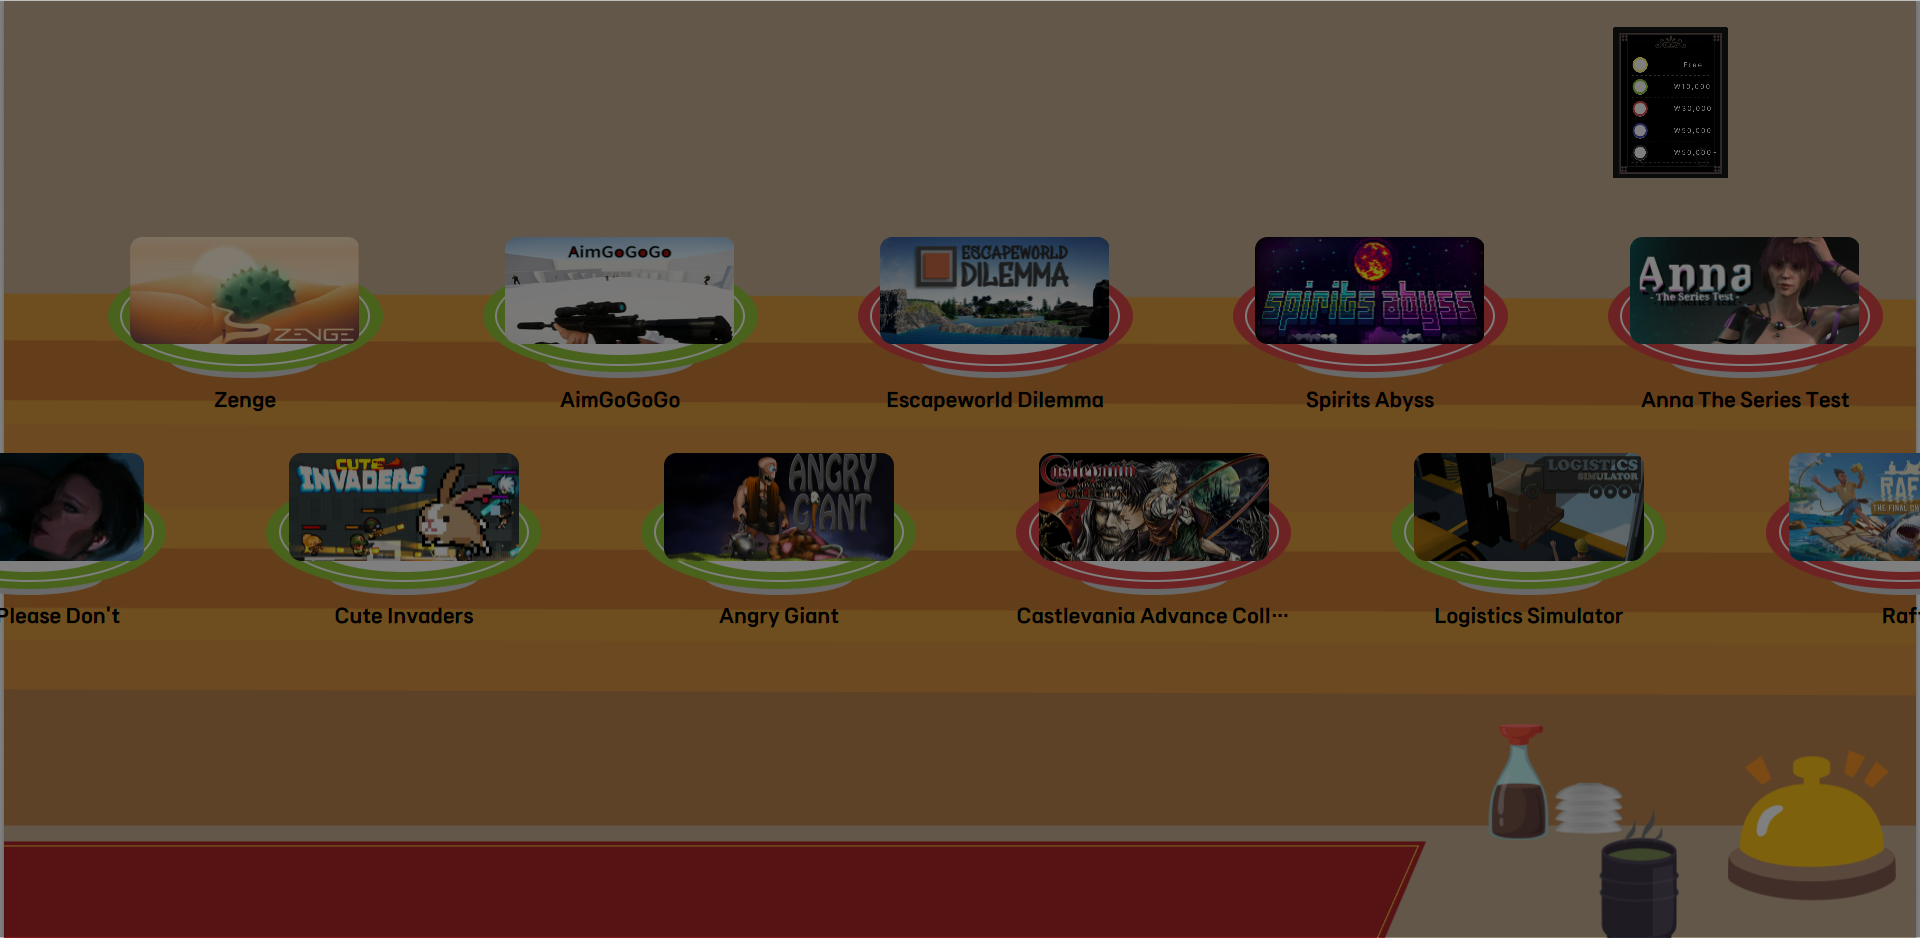
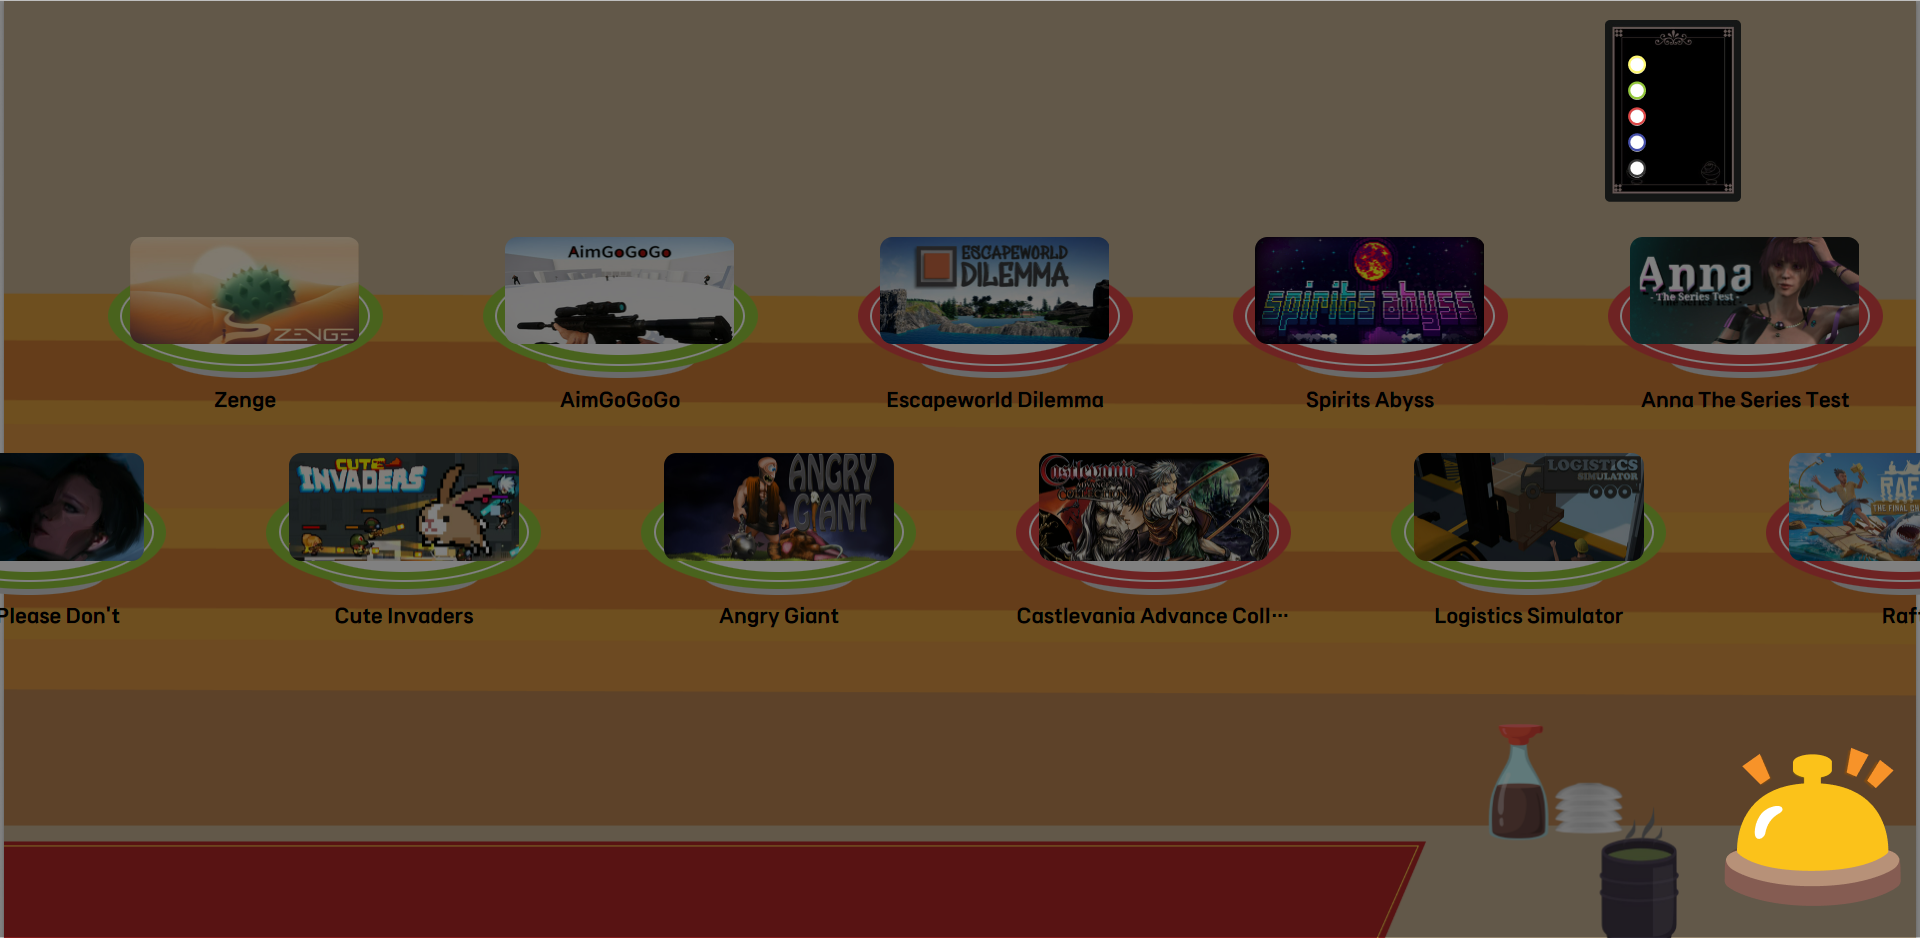
feat:tutorial done
Former-commit-id: 31d00a8ce2d9b2fe3a5ca41522696a976b03b738 [formerly c31d1f26e9799f7cc37b62472d2ee48d71d2d184]
Former-commit-id: 72b934b2256230f26db3ff03bf790257fcc9c484

Changed region(s): [[0.8125, 0.0, 0.9062, 0.2164], [0.875, 0.8038, 1.0, 0.9893]]

diff --git a/front/src/components/TutorialCount.jsx b/front/src/components/TutorialCount.jsx
@@ -1,11 +1,18 @@
 import React from 'react';
+import { useNavigate } from 'react-router-dom';
 
 export default function TutorialCount({ count, setCount }) {
-  console.log(count);
+  const navigate = useNavigate();
+
   const plusCount = () => {
-    const plusCount = (count += 1);
-    console.log(plusCount);
-    setCount(plusCount);
+    if (count !== 4) {
+      const plusCount = (count += 1);
+      console.log(plusCount);
+      setCount(plusCount);
+    } else if (count === 4) {
+      navigate('/game');
+    }
+    
   };
   if (count === 1) {
     return (
@@ -14,13 +21,13 @@ export default function TutorialCount({ count, setCount }) {
         <div className="ml-[13vw]">
           <div className="pointingCircle border-white border-2 border-dashed"></div>
           <div className="ml-[140px]">
-            <div className="bg-white w-[250px] h-[80px]  mt-3 pt-1 px-2 rounded-md">
-              <p className="mt-2">
+            <div className="bg-white  w-[400px] h-[80px]  mt-3 pt-1 px-4 balloon">
+              <p className="mt-2 font-jamsil">
                 1. 초밥을 누르시면 게임의 상세 정보를 알 수 있어요!
               </p>
             </div>
             <button
-              className="mt-2 ml-[200px] bg-yellow-300 hover:bg-yellow-500 font-bold rounded-lg px-2 py-1"
+              className="mt-2 ml-[350px] bg-yellow-300 hover:bg-yellow-500 font-bold rounded-lg px-2 py-1"
               onClick={plusCount}
             >
               다음
@@ -36,13 +43,13 @@ export default function TutorialCount({ count, setCount }) {
         <div className="ml-[13vw]">
           <div className="pointingCircle border-white border-2 border-dashed"></div>
           <div className="ml-[140px]">
-            <div className="bg-white w-[400px] h-[80px]  mt-3 pt-1 px-4 rounded-md">
-              <p className="mt-2">
+            <div className="bg-white w-[400px] h-[80px]  mt-3 pt-1 px-4 balloon">
+              <p className="mt-2 font-jamsil">
                 2. 하고 싶은 게임이 보이면 아래 테이블로 드래그 해주세요!
               </p>
             </div>
             <button
-              className="mt-2 ml-[200px] bg-yellow-300 hover:bg-yellow-500 font-bold rounded-lg px-2 py-1"
+              className="mt-2 ml-[350px] bg-yellow-300 hover:bg-yellow-500 font-bold rounded-lg px-2 py-1"
               onClick={plusCount}
             >
               다음
@@ -53,24 +60,45 @@ export default function TutorialCount({ count, setCount }) {
     );
   } else if (count === 3) {
     return (
-      <div>
-        <div className="h-[36vh]"></div>
-        <div className="h-[15vh]"></div>
-        <div className="ml-[13vw]">
-          <div className="pointingCircle border-white border-2 border-dashed"></div>
-          <div className="ml-[140px]">
-            <div className="bg-white w-[250px] h-[80px]  mt-3 pt-1 px-2 rounded-md">
+      <div className=''>
+
+        <div className="flex justify-end">
+          <div className="mr-[13.5vw] mt-[9vh]">
+            <div className="bg-white w-[400px] h-[80px]  mt-3 pt-1 px-4 rounded-md balloon2 font-jamsil">
               <p className="mt-2">
-                2. 하고 싶은 게임이 보이면 아래 테이블로 드래그 해주세요!
+              3. 메뉴판을 클릭하면
+대략적인 접시 가격을
+알 수 있습니다.
               </p>
             </div>
             <button
-              className="mt-2 ml-[200px] bg-yellow-300 hover:bg-yellow-500 font-bold rounded-lg px-2 py-1"
+              className="mt-2  bg-yellow-300 hover:bg-yellow-500 font-bold rounded-lg px-2 py-1"
               onClick={plusCount}
             >
               다음
             </button>
           </div>
+        </div>
+      </div>
+    );
+  } else if (count === 4) {
+    return (
+      <div>
+        <div className='h-[25vh]'></div>
+        <div className="h-[36vh]"></div>
+        <div className="float-right mr-[10vw]" >
+          <div className="bg-white w-[400px] h-[80px]  mt-3 pt-1 px-4 rounded-md balloon3 font-jamsil ">
+              <p className="mt-2">
+              4. 주문벨을 클릭하면
+담았던 접시에 대한 결과   페이지로 이동할 수 있어요!
+              </p>
+            </div>
+            <button
+              className="mt-2  bg-yellow-300 hover:bg-yellow-500 font-bold rounded-lg px-2 py-1"
+              onClick={plusCount}
+            >
+              완료
+            </button>
         </div>
       </div>
     );

diff --git a/front/src/index.css b/front/src/index.css
@@ -194,3 +194,49 @@ border-radius: 20px;
     height:160px;
     border-radius:50% / 50%;
 }
+
+.balloon {
+  position: relative;
+  border-radius: 10px;
+}
+
+.balloon::before {
+  content: "";
+  position: absolute;
+  top: -15px;
+  left: 0px;
+  border-top: 20px solid transparent;
+  border-left: 20px solid #ffffff;
+  border-bottom: 20px solid transparent;
+  transform: rotate(-15deg);
+}
+.balloon2 {
+  position: relative;
+  border-radius: 10px;
+}
+
+.balloon2::before {
+  content: "";
+  position: absolute;
+  top: -15px;
+  right: 0px;
+  border-top: 20px solid transparent;
+  border-right: 20px solid #ffffff;
+  border-bottom: 20px solid transparent;
+  transform: rotate(25deg);
+}
+.balloon3 {
+  position: relative;
+  border-radius: 10px;
+}
+
+.balloon3::before {
+  content: "";
+  position: absolute;
+  bottom: -15px;
+  right: 0px;
+  border-top: 20px solid transparent;
+  border-right: 20px solid #ffffff;
+  border-bottom: 20px solid transparent;
+  transform: rotate(-25deg);
+}
